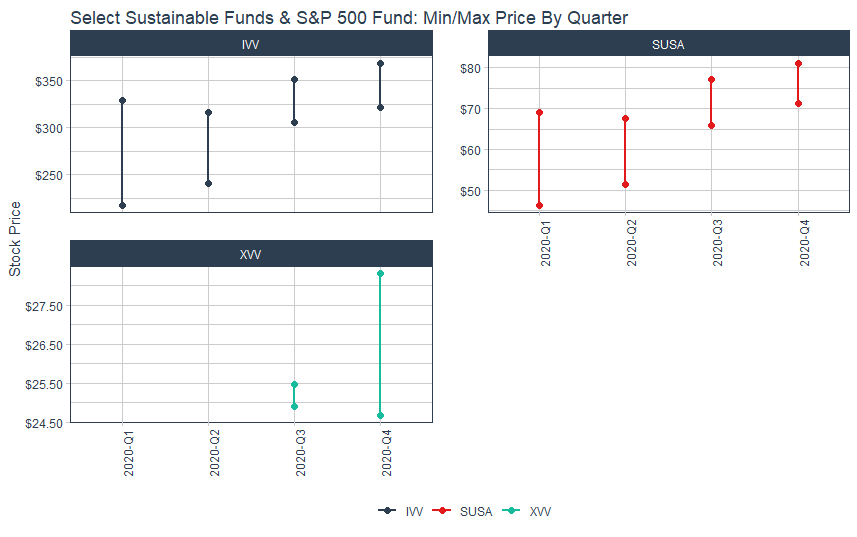
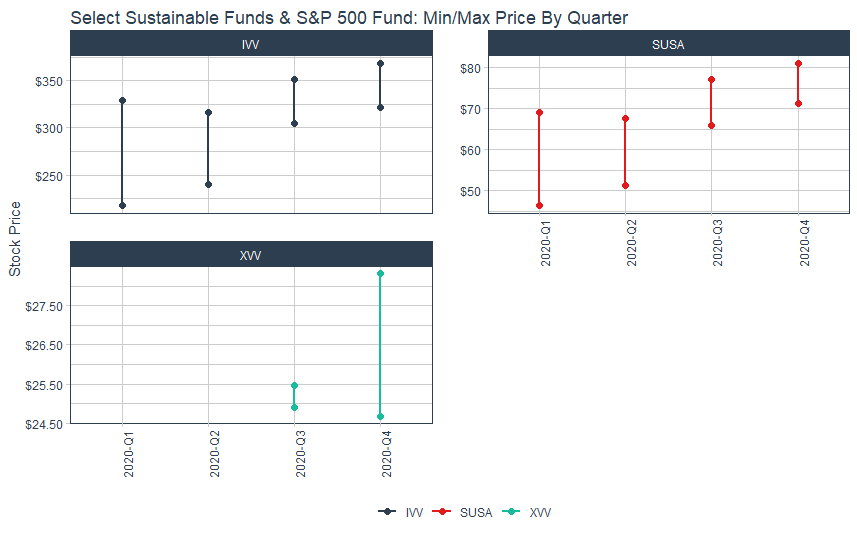
chart updates & updated word content
added and corrected ranges in select figures

diff --git a/_projects/esg-quick-analysis.md b/_projects/esg-quick-analysis.md
@@ -10,25 +10,35 @@ excerpt: Quick Fun ESG Charts
 
 ## Candidate
 
-Jose Andres Montes Lopez
+Jose Andres Montes Lopez (prefer name is Andres)
+
+Experience & Skills
+
+*Project Management (Stakeholder exposure & Presentation Skills)
+*Data Analysis (Intermediate Python & R, Experience working with Diverse Datasets)
+*Demonstrated ESG Interest (Kellog Morgan Stanley Plastic Award Recipient, Social Business Consulting in College, lead internal education pillar in the Social Justice & Impact group)
 
 ## Context
 
 As part of an upcoming interview, I am preparing a quick analysis of a few funds to highlight 
 basic quantitative and data visualizations using R.
 
-The short analyses below leverage an amazing existing package called `tidyquant` which consolidates
-a variety of analytic, manipulation, and visualization packages. In particular, it provides quick access
-to a comprehensive set data sources such as Bloomberg and Yahoo Finance. Another convenient feature of the package is the integration of `dplyr` which is the most popular data manipulation package in R. 
+The short analyses below leverage a package called `tidyquant` that consolidates a variety of analytic, manipulation, and visualization packages. In particular, it provides quick access
+to a comprehensive set of data sources such as Bloomberg and Yahoo Finance. Another popular feature includes the integration of `dplyr` facilitating data transformation and manipulation between data visualizations. 
 
-The data used is from Yahoo Finance and it covers the full 2020 calendar year. The funds selected feature an ESG strategy that is applied to the S&P 500 so I selected the IVV which is another iShare ETF which tracks the S&P 500 making it an ideal benchmark for the analyses.
+The data used is from Yahoo Finance, and it covers the 2020 calendar year. The funds used in the analysis include three ESG ETFs (SUSA, XVV, ESGU) and a "vanilla" ETF (IVV) that tracks the S&P 500. The latter "vanilla" ETF is the benchmark. In the last chart and table, XVV was switched with ESGU to have a complete year to analyze.
 
 ## Results
+
+Overall, the charts below show selected ESG ETFs outperformed the benchmark consistently throughout 2020 and signaled opportunities for trading the ETFs. In charts 1,2 and 5 we see ESG ETF outperforming the benchmark. Chart 4 describes the price ranges of the ETFs. Chart 5 visualizes the MACD displaying multiple opportunities to buy/sell the ESG ETFs based on the acceleration of trends between the benchmark and selected ETFs.
 
 ![image-center](/images/esg-quick-analysis/chart-1.png){: .align-center}
 ![image-center](/images/esg-quick-analysis/chart-2.png){: .align-center}
 ![image-center](/images/esg-quick-analysis/chart-3.png){: .align-center}
 ![image-center](/images/esg-quick-analysis/chart-4.png){: .align-center}
+![image-center](/images/esg-quick-analysis/chart-5.png){: .align-center}
+![image-center](/images/esg-quick-analysis/table-1.png){: .align-center}
+![image-center](/images/esg-quick-analysis/table-2.png){: .align-center}
 
 # Code
 
